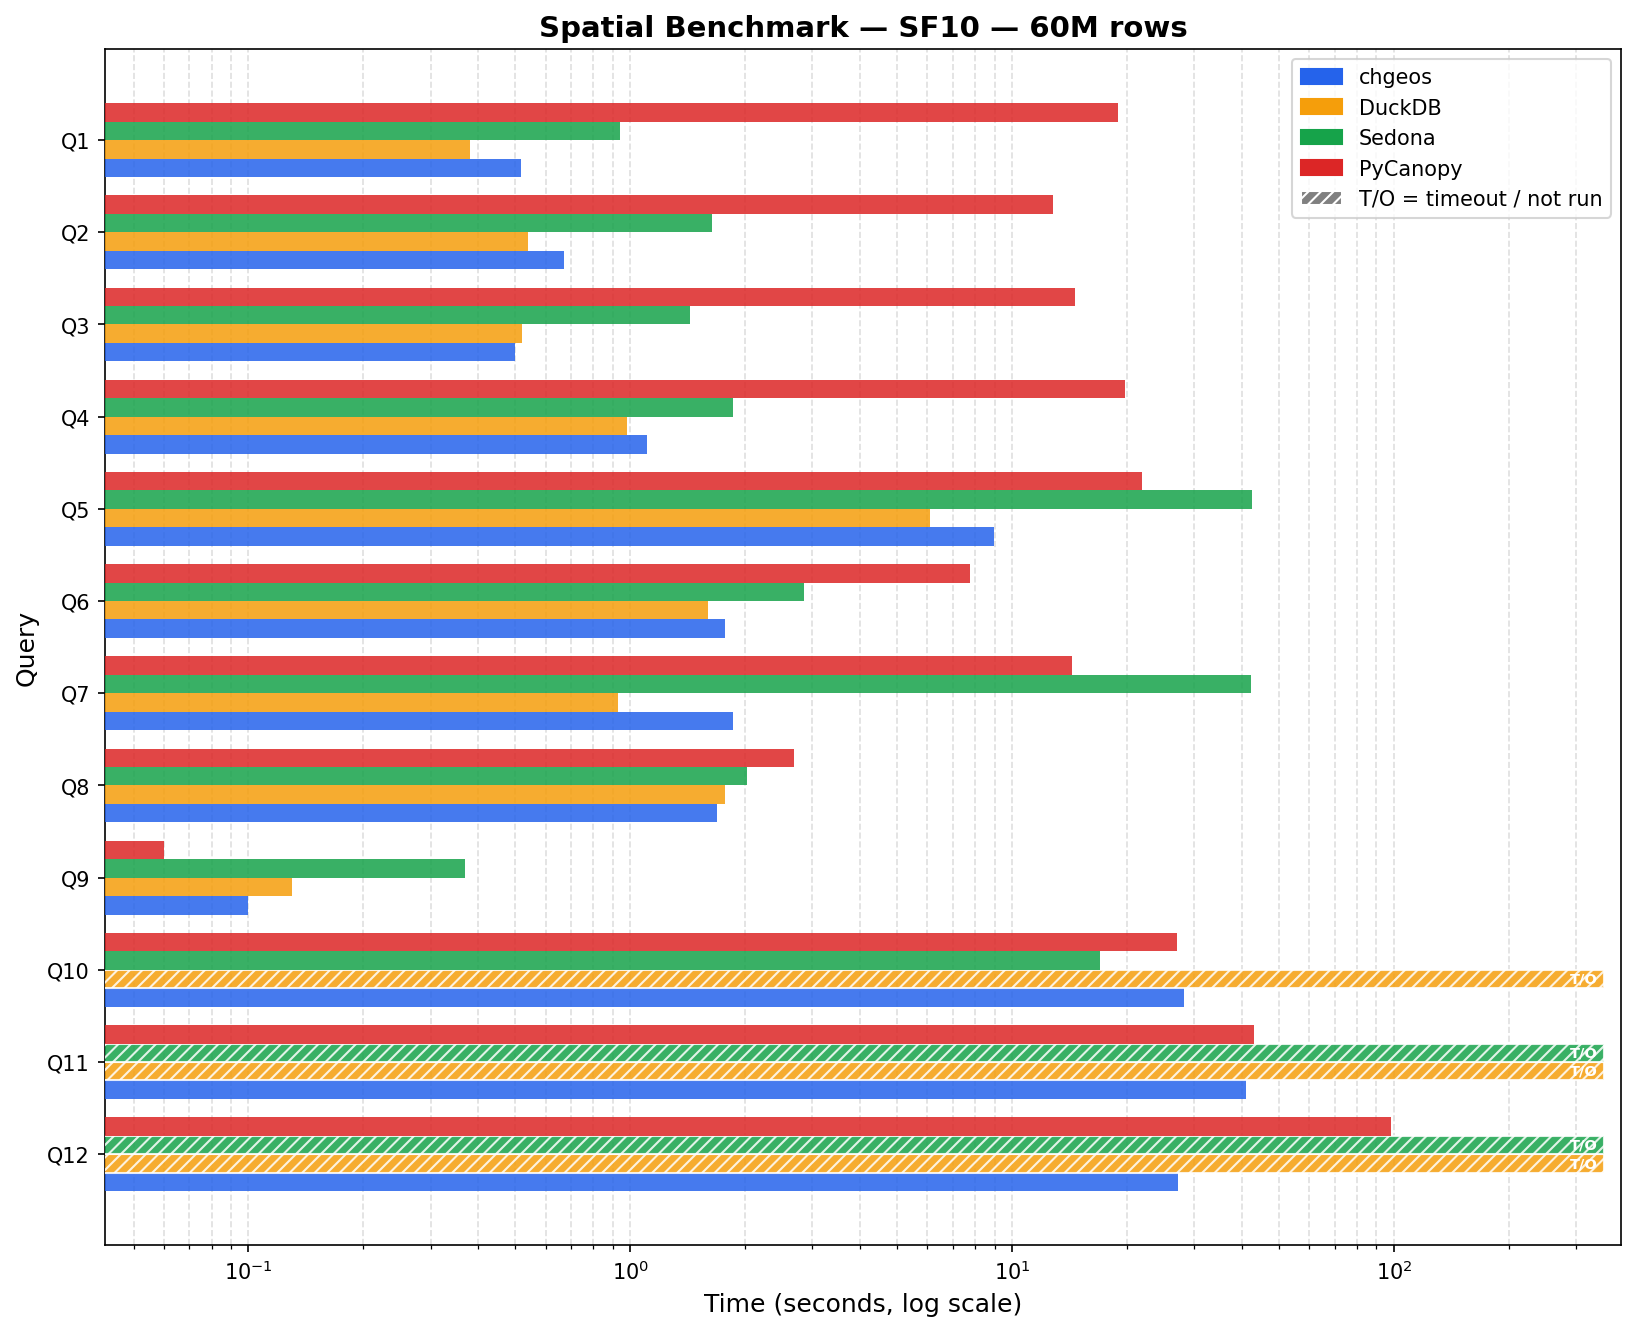
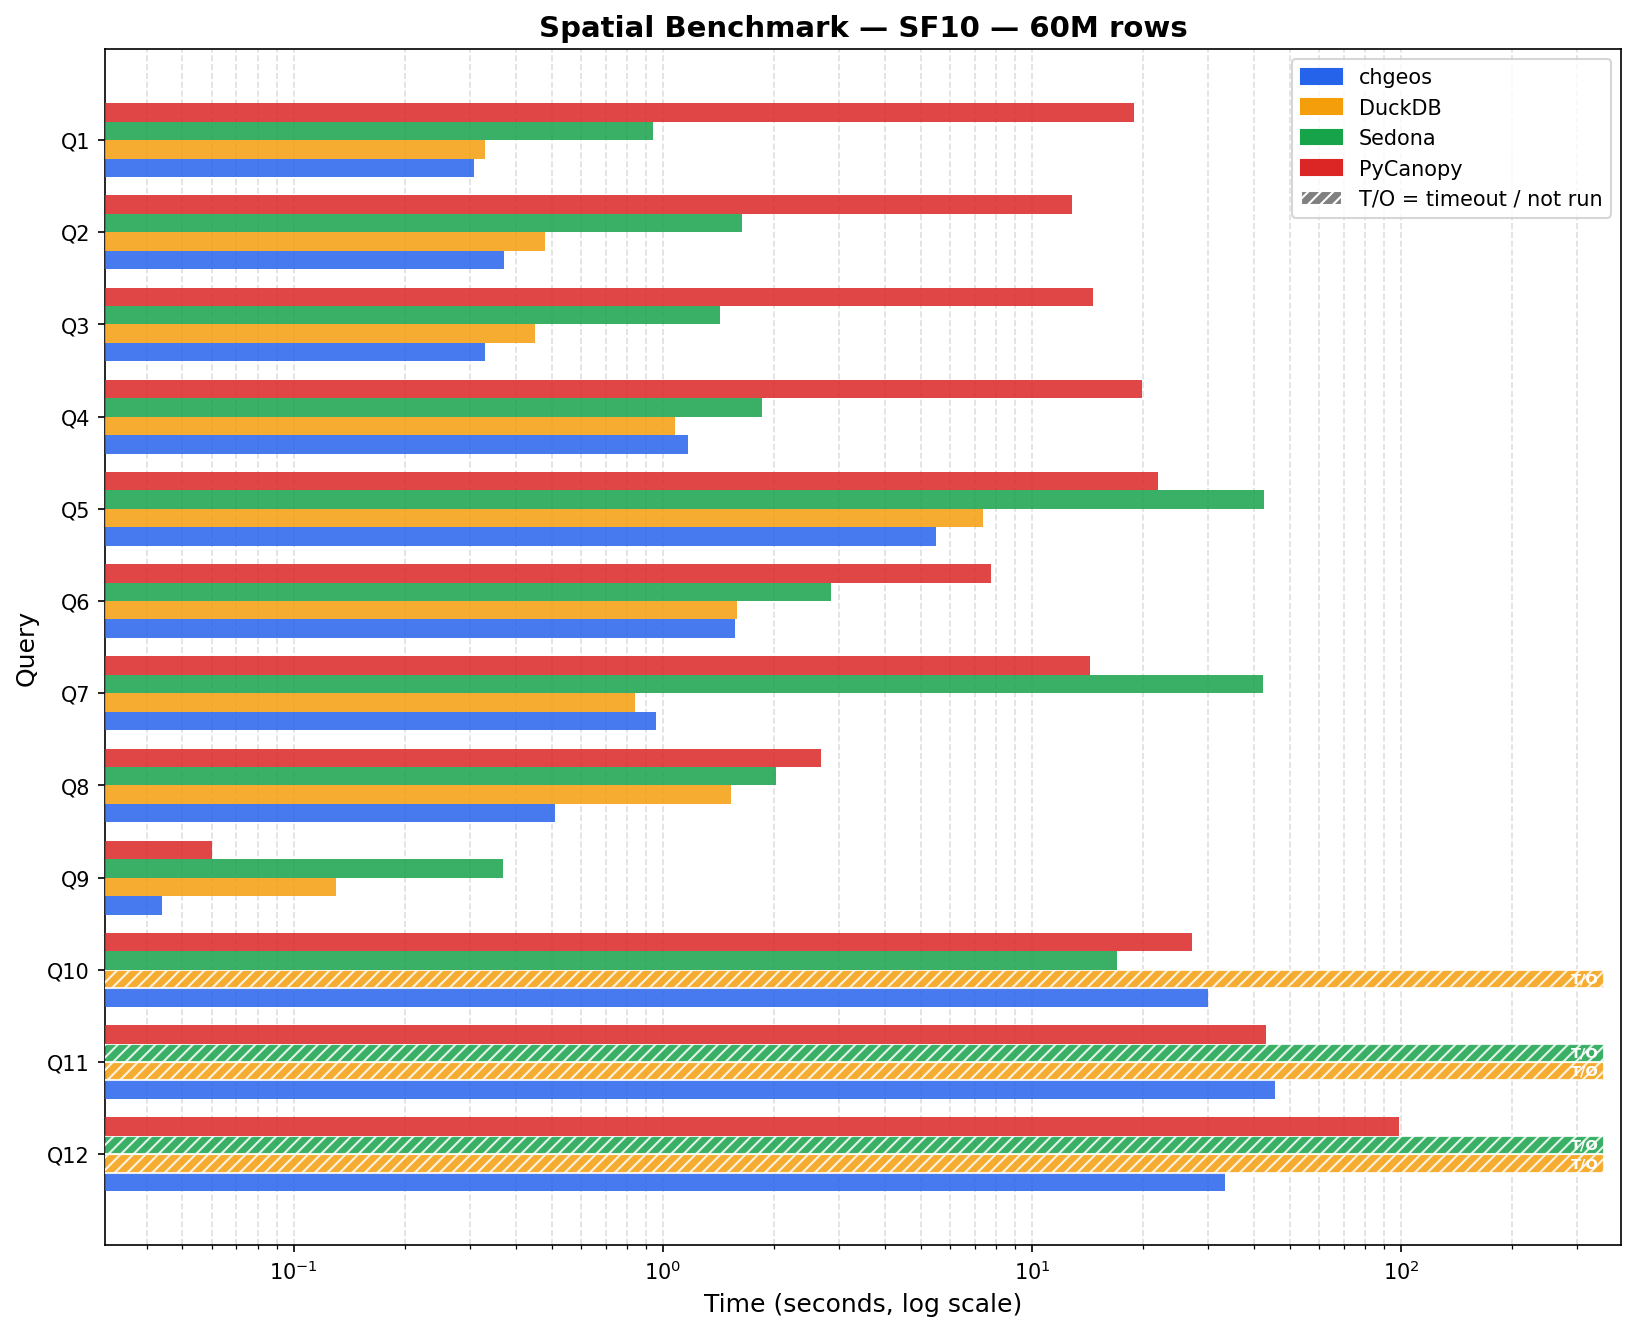
Refresh benchmarks: prefilter + join grid vs DuckDB 1.5.6

diff --git a/BENCHMARK.md b/BENCHMARK.md
@@ -6,11 +6,11 @@ Apache Sedona (SedonaDB) and PyCanopy on the spatial benchmark suite.
 **Hardware:** AMD Ryzen 9 5900X, 128 GB RAM  
 **Dataset:** synthetic taxi trip data from https://github.com/apache/sedona-spatialbench — SF1 = 6M trips, SF10 = 60M trips  
 **Timeout:** 120 s (all engines)  
-**chgeos version:** 2026-08-07  
-**DuckDB version:** 1.5.5  
+**chgeos version:** 2026-10-04 (chgeos `a81da88`, CH `33ced655096`)  
+**DuckDB version:** 1.5.6 (re-measured 2026-10-04)  
 **Sedona version:** 0.3.0  
 **PyCanopy:** measured 2026-07-29  
-**Runs:** 5 per query (fastest reported)  
+**Runs:** 5 per query (average reported)  
 **Winner:** fastest engine; margins under 5% are reported as a tie
 
 ---
@@ -19,28 +19,25 @@ Apache Sedona (SedonaDB) and PyCanopy on the spatial benchmark suite.
 
 | Query | Description                        | chgeos   | DuckDB   | Sedona  | PyCanopy | Winner   |
 |-------|------------------------------------|----------|----------|---------|----------|----------|
-| Q1    | Point-in-radius filter             | 0.08 s   | 0.15 s   | 0.43 s  | 0.81 s   | chgeos   |
-| Q2    | Count trips in county polygon      | 0.08 s   | 0.22 s   | 1.13 s  | 1.68 s   | chgeos   |
+| Q1    | Point-in-radius filter             | 0.20 s   | 0.12 s   | 0.43 s  | 0.81 s   | DuckDB   |
+| Q2    | Count trips in county polygon      | 0.11 s   | 0.18 s   | 1.13 s  | 1.68 s   | chgeos   |
 | Q3    | Monthly stats in bbox+buffer       | 0.08 s   | 0.17 s   | 0.50 s  | 0.64 s   | chgeos   |
-| Q4    | Zone distribution (top-1000 tips)  | 0.61 s   | 0.94 s   | 0.91 s  | 4.78 s   | chgeos   |
-| Q5    | Convex hull area per customer/month| 0.79 s   | 0.69 s   | 2.00 s  | 1.16 s   | DuckDB   |
-| Q6    | Zone stats for bbox-intersect zones| 0.78 s   | 0.82 s   | 0.87 s  | 2.88 s   | Tie      |
-| Q7    | Detour ratio (all trips)           | 0.21 s   | 0.26 s   | 2.35 s  | 1.22 s   | chgeos   |
-| Q8    | Nearby pickups per building        | 0.16 s   | 0.44 s   | 0.35 s  | 0.25 s   | chgeos   |
-| Q9    | Building conflation via IoU        | 0.03 s   | 0.03 s   | 0.24 s  | 0.03 s   | Tie      |
-| Q10   | Zone avg duration/distance         | 3.92 s   | 99.97 s  | 4.87 s  | 5.70 s   | chgeos   |
-| Q11   | Cross-zone trip count              | 5.58 s   | TIMEOUT  | 7.82 s  | 5.84 s   | Tie      |
-| Q12   | 5 nearest buildings per trip (kNN) | 2.02 s   | TIMEOUT  | 18.07 s | 5.71 s   | chgeos   |
+| Q4    | Zone distribution (top-1000 tips)  | 1.41 s   | 0.66 s   | 0.91 s  | 4.78 s   | DuckDB   |
+| Q5    | Convex hull area per customer/month| 0.59 s   | 0.79 s   | 2.00 s  | 1.16 s   | chgeos   |
+| Q6    | Zone stats for bbox-intersect zones| 0.87 s   | 0.92 s   | 0.87 s  | 2.88 s   | Tie      |
+| Q7    | Detour ratio (all trips)           | 0.17 s   | 0.28 s   | 2.35 s  | 1.22 s   | chgeos   |
+| Q8    | Nearby pickups per building        | 0.06 s   | 0.46 s   | 0.35 s  | 0.25 s   | chgeos   |
+| Q9    | Building conflation via IoU        | 0.02 s   | 0.03 s   | 0.24 s  | 0.03 s   | chgeos   |
+| Q10   | Zone avg duration/distance         | 4.86 s   | 111.59 s | 4.87 s  | 5.70 s   | Tie      |
+| Q11   | Cross-zone trip count              | 6.85 s   | TIMEOUT  | 7.82 s  | 5.84 s   | PyCanopy |
+| Q12   | 5 nearest buildings per trip (kNN) | 2.58 s   | TIMEOUT  | 18.07 s | 5.71 s   | chgeos   |
 
-**SF1 wins — chgeos: 8, DuckDB: 1, Sedona: 0, PyCanopy: 0, Ties: 3**
+**SF1 wins — chgeos: 7, DuckDB: 2, Sedona: 0, PyCanopy: 1, Ties: 2**
 
-Q6 and Q11 are scored as ties on measurement grounds rather than by the 5% rule.
-Q6 is 6% apart, but chgeos alone spans 0.78–0.89 s across repeat runs, so the
-margin is inside its own width. Q11 is 4.5% apart, and PyCanopy's 5.84 s is a
-2026-07-29 measurement being compared against a 2026-08-07 chgeos number.
-
-Q7 changed hands since the previous revision: the flat-geometry chain path took it
-from 0.45 s to 0.21 s, past DuckDB's 0.26 s. See the Q7 note below.
+The 2026-10-04 SF1 chgeos averages for Q1 and Q4 include a cold first run
+(Q1 min/avg/max 0.05/0.20/0.77 s, Q4 0.76/1.41/2.49 s): they were the first queries
+to touch `trip.parquet` and `zone.parquet` after the SF10 suite. Warm, chgeos takes
+Q1 (0.05 s) but still loses Q4 (0.76 s fastest run vs DuckDB's 0.66 s average).
 
 **The SF1 tally understates DuckDB, and the cause is our Parquet files.** `sf1/trip.parquet`
 holds 6M rows in only 4 row groups. DuckDB caps a scan pipeline's thread count at the number
@@ -65,26 +62,36 @@ explained by this — see the Q7 note below.
 
 | Query | Description                        | chgeos    | DuckDB   | Sedona   | PyCanopy | Winner   |
 |-------|------------------------------------|-----------|----------|----------|----------|----------|
-| Q1    | Point-in-radius filter             | 0.54 s    | 0.38 s   | 0.94 s   | 18.93 s  | DuckDB   |
-| Q2    | Count trips in county polygon      | 0.74 s    | 0.54 s   | 1.64 s   | 12.81 s  | DuckDB   |
-| Q3    | Monthly stats in bbox+buffer       | 0.57 s    | 0.52 s   | 1.43 s   | 14.59 s  | DuckDB   |
-| Q4    | Zone distribution (top-1000 tips)  | 1.11 s    | 0.98 s   | 1.86 s   | 19.80 s  | DuckDB   |
-| Q5    | Convex hull area per customer/month| 5.78 s    | 6.11 s   | 42.43 s  | 21.93 s  | chgeos   |
-| Q6    | Zone stats for bbox-intersect zones| 1.91 s    | 1.60 s   | 2.86 s   | 7.74 s   | DuckDB   |
-| Q7    | Detour ratio (all trips)           | 1.80 s    | 0.93 s   | 42.28 s  | 14.39 s  | DuckDB   |
-| Q8    | Nearby pickups per building        | 1.58 s    | 1.77 s   | 2.02 s   | 2.69 s   | chgeos   |
-| Q9    | Building conflation via IoU        | 0.10 s    | 0.13 s   | 0.37 s   | 0.06 s   | PyCanopy |
-| Q10   | Zone avg duration/distance         | 30.29 s   | TIMEOUT  | 17.02 s  | 27.05 s  | Sedona   |
-| Q11   | Cross-zone trip count              | 42.25 s   | TIMEOUT  | TIMEOUT  | 42.97 s  | Tie      |
-| Q12   | 5 nearest buildings per trip (kNN) | 31.45 s   | TIMEOUT  | TIMEOUT  | 98.60 s  | chgeos   |
+| Q1    | Point-in-radius filter             | 0.31 s    | 0.33 s   | 0.94 s   | 18.93 s  | chgeos   |
+| Q2    | Count trips in county polygon      | 0.37 s    | 0.48 s   | 1.64 s   | 12.81 s  | chgeos   |
+| Q3    | Monthly stats in bbox+buffer       | 0.33 s    | 0.45 s   | 1.43 s   | 14.59 s  | chgeos   |
+| Q4    | Zone distribution (top-1000 tips)  | 1.17 s    | 1.08 s   | 1.86 s   | 19.80 s  | DuckDB   |
+| Q5    | Convex hull area per customer/month| 5.50 s    | 7.36 s   | 42.43 s  | 21.93 s  | chgeos   |
+| Q6    | Zone stats for bbox-intersect zones| 1.57 s    | 1.59 s   | 2.86 s   | 7.74 s   | Tie      |
+| Q7    | Detour ratio (all trips)           | 0.96 s    | 0.84 s   | 42.28 s  | 14.39 s  | DuckDB   |
+| Q8    | Nearby pickups per building        | 0.51 s    | 1.53 s   | 2.02 s   | 2.69 s   | chgeos   |
+| Q9    | Building conflation via IoU        | 0.04 s    | 0.13 s   | 0.37 s   | 0.06 s   | chgeos   |
+| Q10   | Zone avg duration/distance         | 30.00 s   | TIMEOUT  | 17.02 s  | 27.05 s  | Sedona   |
+| Q11   | Cross-zone trip count              | 45.59 s   | TIMEOUT  | TIMEOUT  | 42.97 s  | PyCanopy |
+| Q12   | 5 nearest buildings per trip (kNN) | 33.28 s   | TIMEOUT  | TIMEOUT  | 98.60 s  | chgeos   |
 
-**SF10 wins — chgeos: 3, DuckDB: 6, Sedona: 1, PyCanopy: 1, Ties: 1**
+**SF10 wins — chgeos: 7, DuckDB: 2, Sedona: 1, PyCanopy: 1, Ties: 1**
 
-The chgeos SF10 column was re-measured on 2026-10-03 at CH `fb4d4a02287` on the
-upstream split files (`max_streams_for_file_reading=4`, cb wire, 5 runs, averages).
-The competitor columns below were measured on the older single-file layout and
-have not been re-run on the split files, so treat SF10 rankings as approximate.
-The paragraph below describes the previous (2026-08-07) chgeos measurement.
+chgeos and DuckDB SF10 were re-measured back to back on 2026-10-04 on the upstream
+split files (chgeos COLUMNAR_V1 wire, 5 runs, averages). The machine was not idle:
+an unrelated process held one core and 23 GB throughout, and load average was
+20–35 during the DuckDB runs, so treat sub-2-second rows as ±10%. DuckDB Q11/Q12 were
+not re-run (the run was stopped after Q10 timed out; both timed out in every earlier
+measurement). Sedona (2026-05-06) and PyCanopy (2026-07-29) were measured on the older
+single-file layout and have not been re-run.
+
+What moved since 2026-10-03: a host-side bounding-box prefilter answers bbox-disjoint
+rows of constant-argument spatial predicates without entering WASM (Q1 −29%, Q3 −30%,
+Q2/Q6 −7..12%), and an occupancy grid in `SpatialRTreeJoin` skips probe rows whose box
+touches no build-side cell (Q8 1.45 → 0.51 s). Q4 and Q6 are now Parquet-read bound
+(Q6 = zone scan 0.86 s + trip scan 0.88 s; the join itself is ~0). Q7 is the remaining
+DuckDB lead: Parquet read alone is ~0.73 s, the rest is copying WKB into WASM.
+The 2026-08-07 description that follows is kept for history.
 
 Both chgeos columns were re-measured on 2026-08-07 on an idle machine at commit
 `79063df`, and every query was checked against the spatialbench reference answers
